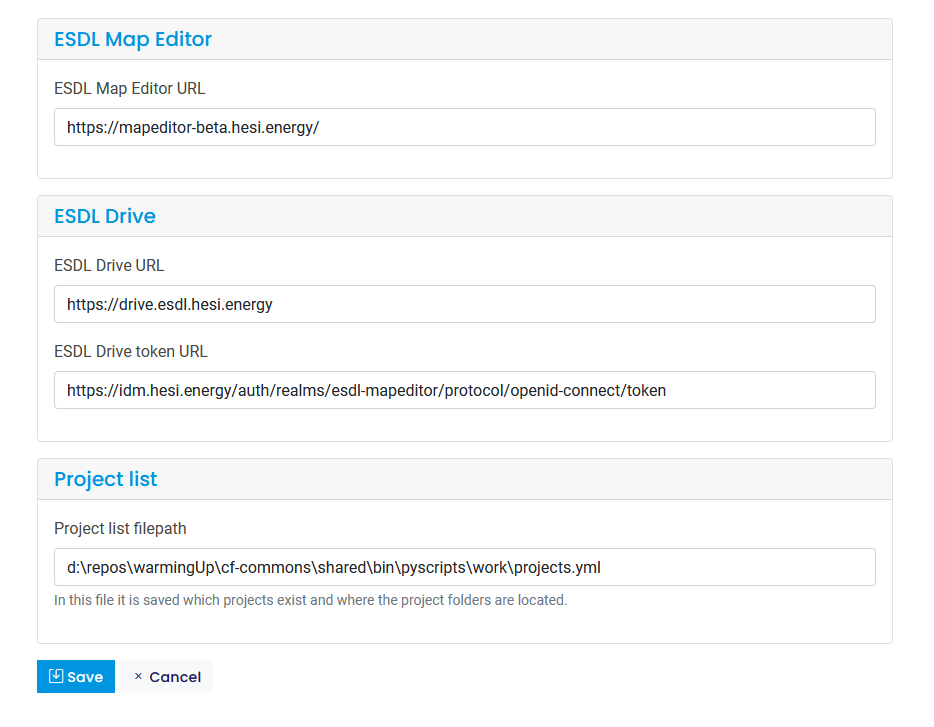
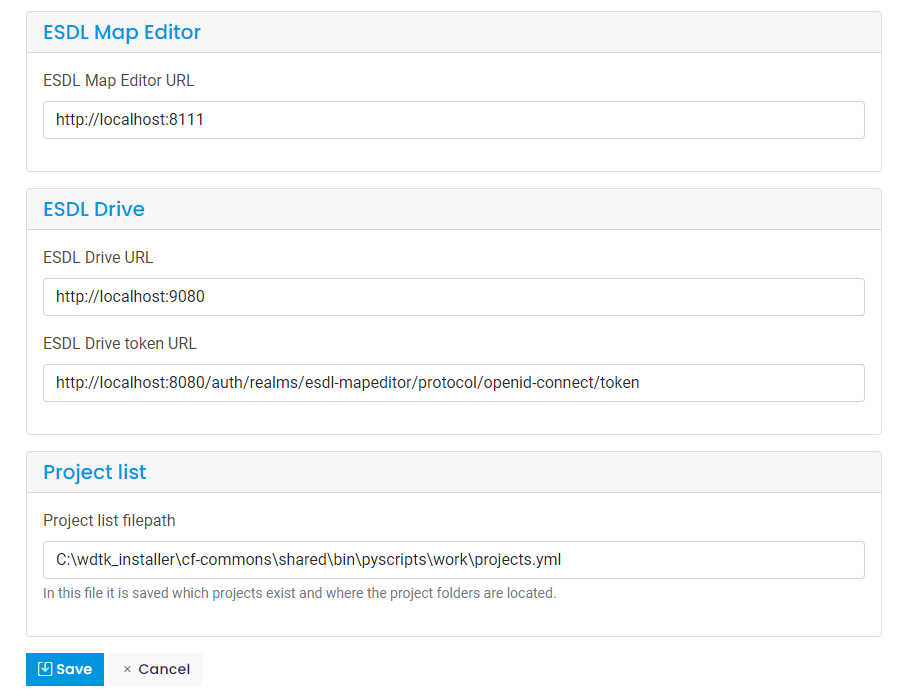
update map editor link

diff --git a/workflows/conceptual/index.rst b/workflows/conceptual/index.rst
@@ -1,5 +1,3 @@
-.. _Conceptual_design:
-
 I want to create a network
 ==========================
 
@@ -40,12 +38,13 @@ To achieve these results the following workflows and packages are used:
 
 +------------+-----------------------------------------------+
 | |image0|   | ESDL MapEditor is used to create a network.   |
++============+===============================================+
 +------------+-----------------------------------------------+
 
 +----------+--------------------------------------------------------------------------------------------------------------------------------------------------------------------------------------------------------------------------------------------------------------------------------------------------------------+
 | **1**    | \ **How to start up ESDL MapEditor?**                                                                                                                                                                                                                                                                        |
-+----------+--------------------------------------------------------------------------------------------------------------------------------------------------------------------------------------------------------------------------------------------------------------------------------------------------------------+
-| 1.1      | Go to `ESDL MapEditor (hesi.energy) <https://mapeditor-beta.hesi.energy/editor>`__ and use credentials to login.                                                                                                                                                                                             |
++==========+==============================================================================================================================================================================================================================================================================================================+
+| 1.1      | Go to `ESDL MapEditor <http://localhost:8111/>`__ and use credentials to login.                                                                                                                                                                                                                              |
 +----------+--------------------------------------------------------------------------------------------------------------------------------------------------------------------------------------------------------------------------------------------------------------------------------------------------------------+
 | 1.2      | Figure below presents the user interface (UI) of the ESDL MapEditor.                                                                                                                                                                                                                                         |
 |          |                                                                                                                                                                                                                                                                                                              |
